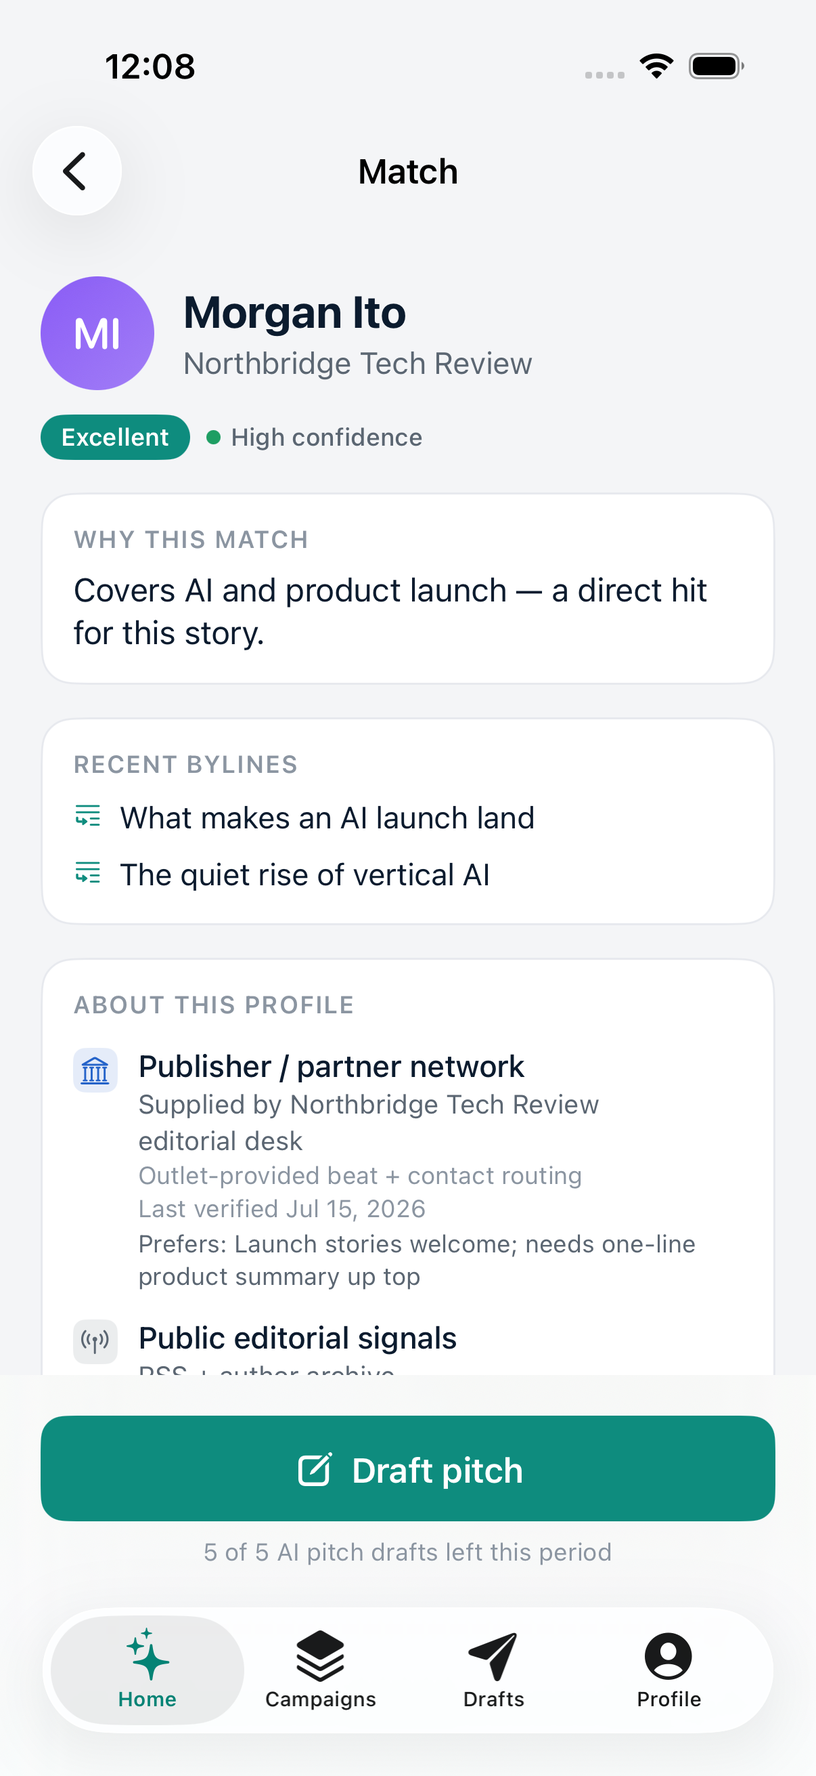
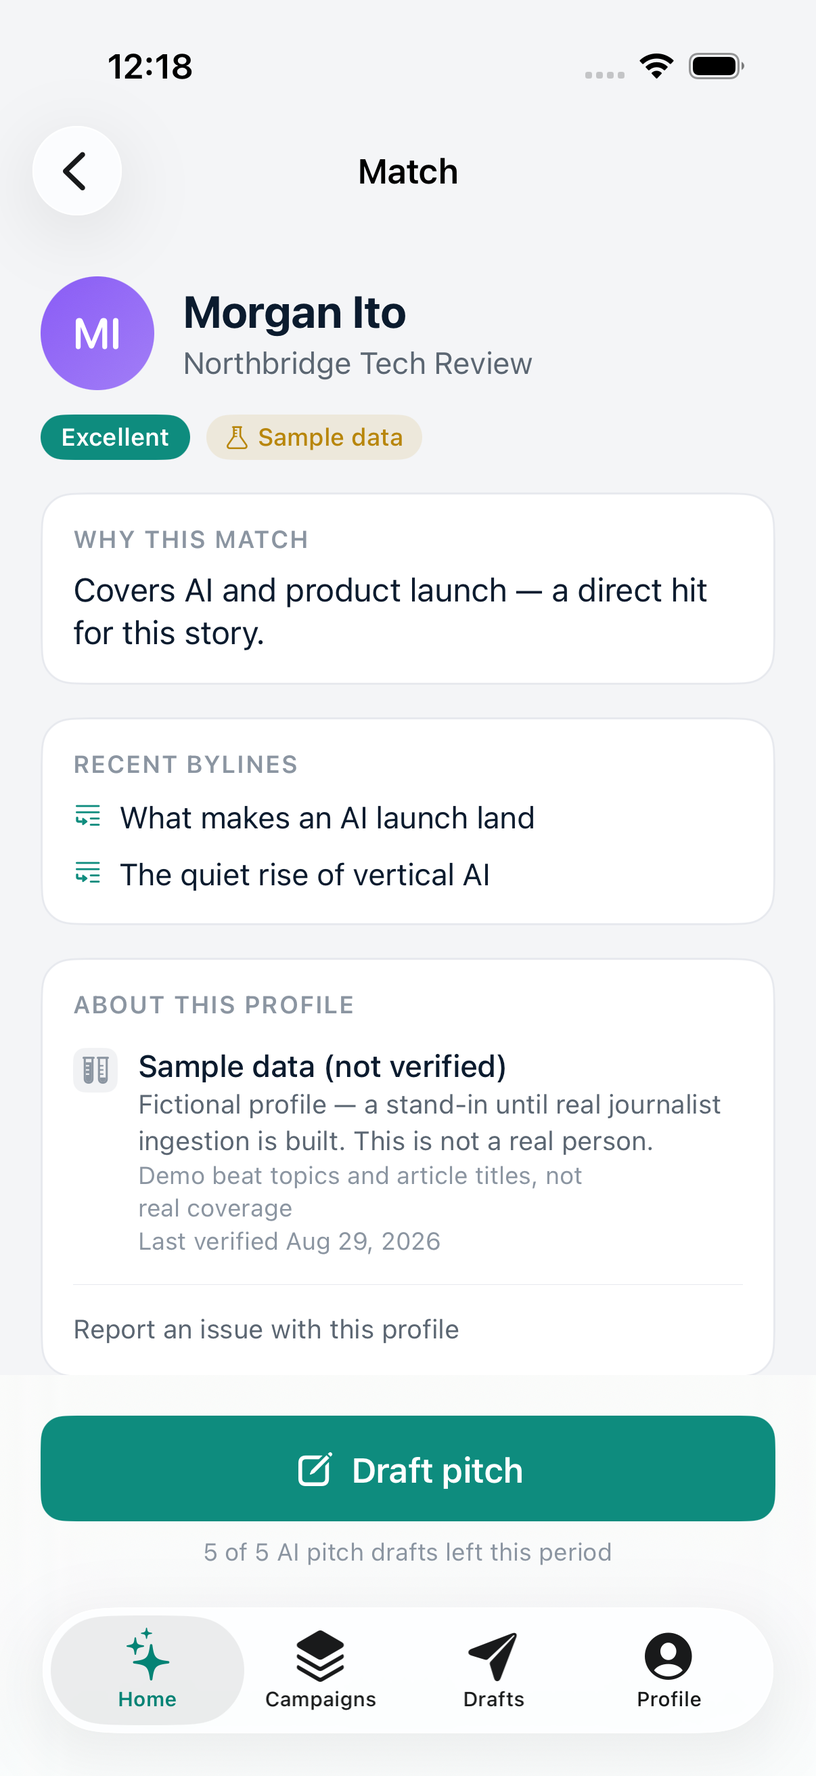
Honesty: matches are fictional — and the app now says so everywhere
The fellows caught it: the app was presenting made-up journalists with
provenance labels ("Claimed by the journalist", "Last verified Jul 15",
"High confidence") that imply real, verified data. That's the exact
anti-pattern the direction warns against.

- SampleJournalists: every profile now carries ONE .sampleData provenance
  record with honest text ("Fictional profile — this is not a real person").
  No more fake claimed/publisher/licensed source types on invented people.
- JournalistProfile.isSampleData — true while every source is sample data;
  flips false on its own when real ingestion writes real records.
- Sample profiles always score .exploratory evidence confidence — matching
  gives them no "verified data" bonus (tier spread is now honest: 6 excellent,
  not 9).
- SampleDataBanner (Design/Components) on the match list; "Sample" tag on
  every match card; "Sample data" pill on the detail header; the provenance
  card leads with "not verified".
- Home carries a one-line "matches use sample journalists for now" note.
- SampleDataTests (3): every profile reads as sample, well-formed, and
  never inflated by a confidence bonus.

21 unit + 2 UI tests green (UI test now asserts the honesty banner shows and
scrolls to find its target since the tier order shifted). Release clean.

Claude-Session: https://claude.ai/code/session_013ymha6n2L9SfifjYS1iGM9

diff --git a/BeatMatch/Sources/Data/SampleJournalists.swift b/BeatMatch/Sources/Data/SampleJournalists.swift
@@ -1,121 +1,69 @@
 import Foundation
 
-/// Placeholder / sample data for local development only.
-/// These are NOT real journalists — fictional profiles to prove the
-/// analyze -> understand -> match -> explain -> draft loop before the real
-/// ingestion pipeline (public editorial-signal ingestion + provenance registry)
-/// is built. Every profile carries provenance records, same as real data would,
-/// so the UI never special-cases "sample" vs "real" — it reads whatever's there.
+/// Fictional sample data — **not real journalists.** These stand in for the real
+/// ingestion pipeline (public editorial signals + publisher partnerships +
+/// licensed data + claimed profiles) so the analyze → match → explain → draft
+/// loop can be built and shown. Every profile carries only `.sampleData`
+/// provenance, so `JournalistProfile.isSampleData` is true and the UI shows a
+/// clear "sample data" state everywhere a match appears.
+///
+/// When real ingestion lands it writes real `ProvenanceRecord`s with real source
+/// types; `isSampleData` flips to false and the sample banners vanish.
 enum SampleJournalists {
     private struct Entry {
         let name: String
         let outlet: String
         let topics: [String]
         let bylines: [String]
-        /// (sourceType, detail, coverageBasis, daysSinceVerified, pitchPreference?)
-        let provenance: [(ProvenanceSourceType, String, String?, Int, String?)]
     }
 
     static func seedPool() -> [JournalistProfile] {
         let entries: [Entry] = [
             Entry(name: "Riley Chen", outlet: "The Signal Desk",
                   topics: ["ai", "machine learning", "developer tools", "automation"],
-                  bylines: ["How small teams ship AI features fast", "Inside the developer tools boom"],
-                  provenance: [
-                    (.claimedProfile, "Profile claimed and edited by Riley Chen", "Self-declared beat + pitch rules", 20, "Email preferred, no cold DMs, data-backed pitches"),
-                    (.publicSignal, "Bylines from The Signal Desk author page", "12 articles, last 90 days", 6, nil)
-                  ]),
+                  bylines: ["How small teams ship AI features fast", "Inside the developer tools boom"]),
             Entry(name: "Morgan Ito", outlet: "Northbridge Tech Review",
                   topics: ["ai", "product launch", "vertical ai"],
-                  bylines: ["What makes an AI launch land", "The quiet rise of vertical AI"],
-                  provenance: [
-                    (.publisherPartner, "Supplied by Northbridge Tech Review editorial desk", "Outlet-provided beat + contact routing", 45, "Launch stories welcome; needs one-line product summary up top"),
-                    (.publicSignal, "RSS + author archive", "8 articles, last 60 days", 3, nil)
-                  ]),
+                  bylines: ["What makes an AI launch land", "The quiet rise of vertical AI"]),
             Entry(name: "Sasha Reyes", outlet: "Founders Weekly",
                   topics: ["funding", "startups", "seed rounds"],
-                  bylines: ["Seed rounds are getting weirder", "Why founders are skipping the pitch deck"],
-                  provenance: [
-                    (.licensedDataset, "Licensed media database record", "Beat classification + outlet", 200, "Funding news only if the round is closed and named"),
-                    (.publicSignal, "Public bylines", "Sparse recent coverage", 150, nil)
-                  ]),
+                  bylines: ["Seed rounds are getting weirder", "Why founders are skipping the pitch deck"]),
             Entry(name: "Dana Whitfield", outlet: "The Interface",
                   topics: ["developer tools", "apis", "cli", "sdk"],
-                  bylines: ["The best developer tools of the year", "API design as product strategy"],
-                  provenance: [
-                    (.claimedProfile, "Profile claimed by Dana Whitfield", "Self-declared beat", 8, "Short, technical pitches. Show, don't tell."),
-                  ]),
+                  bylines: ["The best developer tools of the year", "API design as product strategy"]),
             Entry(name: "Priya Nandan", outlet: "Consumer Tech Daily",
                   topics: ["consumer", "apps", "ios", "productivity"],
-                  bylines: ["The App Store's quiet renaissance", "Why consumer apps are getting simpler"],
-                  provenance: [
-                    (.publisherPartner, "Consumer Tech Daily contributor roster", "Outlet-provided", 30, "Consumer angle required; no B2B"),
-                    (.publicSignal, "Author page", "10 articles, last 90 days", 2, nil)
-                  ]),
+                  bylines: ["The App Store's quiet renaissance", "Why consumer apps are getting simpler"]),
             Entry(name: "Owen Marsh", outlet: "Fintech Ledger",
                   topics: ["fintech", "payments", "banking"],
-                  bylines: ["Payments infrastructure nobody talks about", "The new fintech underwriting stack"],
-                  provenance: [
-                    (.licensedDataset, "Licensed media database record", "Beat + outlet", 90, "Prefers infrastructure over consumer fintech"),
-                  ]),
+                  bylines: ["Payments infrastructure nobody talks about", "The new fintech underwriting stack"]),
             Entry(name: "Elena Cho", outlet: "The Signal Desk",
                   topics: ["ai", "acquisition", "product launch"],
-                  bylines: ["What AI acquisitions really buy", "The build-vs-buy calculus for AI teams"],
-                  provenance: [
-                    (.publicSignal, "Bylines from The Signal Desk", "6 articles, last 120 days", 40, nil),
-                  ]),
+                  bylines: ["What AI acquisitions really buy", "The build-vs-buy calculus for AI teams"]),
             Entry(name: "Marcus Aldridge", outlet: "Deep Dive Tech",
                   topics: ["developer tools", "ai", "open source"],
-                  bylines: ["Framework fatigue is real", "The tools developers actually reach for"],
-                  provenance: [
-                    (.claimedProfile, "Profile claimed by Marcus Aldridge", "Self-declared beat + do-not-pitch list", 15, "No funding pitches. Open-source angle welcome."),
-                    (.publicSignal, "Author archive", "14 articles, last 90 days", 4, nil)
-                  ]),
+                  bylines: ["Framework fatigue is real", "The tools developers actually reach for"]),
             Entry(name: "Talia Brooks", outlet: "Northbridge Tech Review",
                   topics: ["consumer", "product launch", "automation"],
-                  bylines: ["Launch week, decoded", "What a good product launch looks like in 2026"],
-                  provenance: [
-                    (.publisherPartner, "Northbridge Tech Review editorial desk", "Outlet-provided", 60, "Launch playbooks and consumer angles"),
-                  ]),
+                  bylines: ["Launch week, decoded", "What a good product launch looks like in 2026"]),
             Entry(name: "Jules Ferreira", outlet: "Founders Weekly",
                   topics: ["startups", "acquisition", "funding"],
-                  bylines: ["The acquihire is back", "Inside a founder's first exit"],
-                  provenance: [
-                    (.publicSignal, "Public bylines", "5 articles, last 180 days", 170, nil),
-                  ]),
+                  bylines: ["The acquihire is back", "Inside a founder's first exit"]),
             Entry(name: "Nora Kessler", outlet: "The Interface",
                   topics: ["ai", "apis", "sdk", "developer tools"],
-                  bylines: ["The API-first AI stack", "Why every AI startup needs an SDK strategy"],
-                  provenance: [
-                    (.claimedProfile, "Profile claimed by Nora Kessler", "Self-declared beat", 25, "API/SDK strategy stories. Email only."),
-                    (.publicSignal, "Author page", "9 articles, last 75 days", 5, nil)
-                  ]),
+                  bylines: ["The API-first AI stack", "Why every AI startup needs an SDK strategy"]),
             Entry(name: "Ibrahim Solis", outlet: "Consumer Tech Daily",
                   topics: ["ai", "consumer", "apps"],
-                  bylines: ["AI features nobody asked for (and some they did)", "The consumer AI app graveyard"],
-                  provenance: [
-                    (.publisherPartner, "Consumer Tech Daily roster", "Outlet-provided", 35, "Skeptical of AI hype; bring a real use case"),
-                  ]),
+                  bylines: ["AI features nobody asked for (and some they did)", "The consumer AI app graveyard"]),
             Entry(name: "Wren Ashby", outlet: "Deep Dive Tech",
                   topics: ["fintech", "developer tools", "apis"],
-                  bylines: ["Building fintech APIs that don't break", "The infrastructure behind embedded finance"],
-                  provenance: [
-                    (.licensedDataset, "Licensed media database record", "Beat + outlet", 110, nil),
-                    (.publicSignal, "Author archive", "7 articles, last 100 days", 12, nil)
-                  ]),
+                  bylines: ["Building fintech APIs that don't break", "The infrastructure behind embedded finance"]),
             Entry(name: "Camille Duquette", outlet: "Fintech Ledger",
                   topics: ["funding", "fintech", "startups"],
-                  bylines: ["Fintech funding is back, quietly", "Who's actually writing fintech checks in 2026"],
-                  provenance: [
-                    (.publicSignal, "Public bylines", "6 articles, last 60 days", 8, nil),
-                  ]),
+                  bylines: ["Fintech funding is back, quietly", "Who's actually writing fintech checks in 2026"]),
             Entry(name: "Theo Lindqvist", outlet: "The Signal Desk",
                   topics: ["developer tools", "ai", "product launch"],
-                  bylines: ["Developer-first launches, ranked", "What developers notice in the first five minutes"],
-                  provenance: [
-                    (.claimedProfile, "Profile claimed by Theo Lindqvist", "Self-declared beat", 10, "Developer-first launches. Short pitch, link to docs."),
-                    (.publisherPartner, "The Signal Desk desk", "Outlet-provided contact routing", 50, nil)
-                  ]),
+                  bylines: ["Developer-first launches, ranked", "What developers notice in the first five minutes"]),
         ]
 
         var outletCache: [String: Outlet] = [:]
@@ -130,16 +78,14 @@ enum SampleJournalists {
                 recentBylineTitles: entry.bylines,
                 outlet: outlet
             )
-            journalist.provenanceRecords = entry.provenance.map { item in
-                let (type, detail, basis, days, pref) = item
-                return ProvenanceRecord(
-                    sourceType: type,
-                    detail: detail,
-                    coverageBasis: basis,
-                    lastVerifiedAt: Calendar.current.date(byAdding: .day, value: -days, to: Date()) ?? Date(),
-                    pitchPreference: pref
+            journalist.provenanceRecords = [
+                ProvenanceRecord(
+                    sourceType: .sampleData,
+                    detail: "Fictional profile — a stand-in until real journalist ingestion is built. This is not a real person.",
+                    coverageBasis: "Demo beat topics and article titles, not real coverage",
+                    lastVerifiedAt: Date()
                 )
-            }
+            ]
             return journalist
         }
     }

diff --git a/BeatMatch/UnitTests/SampleDataTests.swift b/BeatMatch/UnitTests/SampleDataTests.swift
@@ -1,0 +1,46 @@
+import XCTest
+@testable import Pitchwire
+
+final class SampleDataTests: XCTestCase {
+
+    private let pool = SampleJournalists.seedPool()
+
+    func testEveryProfileIsHonestlyMarkedAsSample() {
+        XCTAssertFalse(pool.isEmpty)
+        for j in pool {
+            XCTAssertTrue(j.isSampleData, "\(j.name) must read as sample data")
+            XCTAssertTrue(j.provenanceRecords.allSatisfy { $0.sourceType == .sampleData })
+            XCTAssertEqual(j.evidenceConfidence, .exploratory,
+                           "sample data must never present as high/moderate confidence")
+        }
+    }
+
+    func testSampleProfilesAreWellFormed() {
+        for j in pool {
+            XCTAssertFalse(j.name.trimmingCharacters(in: .whitespaces).isEmpty)
+            XCTAssertFalse(j.beatTopics.isEmpty, "\(j.name) has no beat topics")
+            XCTAssertNotNil(j.outlet)
+            XCTAssertFalse(j.recentBylineTitles.isEmpty, "\(j.name) has no bylines")
+            for record in j.provenanceRecords {
+                XCTAssertLessThanOrEqual(record.lastVerifiedAt, Date(), "verification date in the future")
+                XCTAssertTrue(record.detail.lowercased().contains("not a real")
+                              || record.detail.lowercased().contains("fictional"),
+                              "sample provenance must say it isn't real")
+            }
+        }
+    }
+
+    func testMatchingRanksSampleDataWithoutAConfidenceBonus() {
+        let service = KeywordMatchingService()
+        let analysis = StoryAnalysisResult(
+            theme: "AI", vertical: "ai", region: "US", angle: "product launch",
+            urgency: "standard", summary: "", audience: "Developers",
+            subtopics: ["developer tools", "apis"], mediaHooks: []
+        )
+        let results = service.match(analysis: analysis, against: pool)
+        XCTAssertFalse(results.isEmpty)
+        // A sample profile can still be a top topical fit, but nothing about
+        // "verified evidence" should be inflating it.
+        XCTAssertTrue(results.allSatisfy { $0.journalist.isSampleData })
+    }
+}

diff --git a/BeatMatch/Sources/Design/Components.swift b/BeatMatch/Sources/Design/Components.swift
@@ -161,6 +161,36 @@ extension ButtonStyle where Self == PitchwireButtonStyle {
     static var pitchwireQuiet: PitchwireButtonStyle { PitchwireButtonStyle(prominent: false) }
 }
 
+// MARK: - Sample data notice
+
+/// Shown wherever sample journalists appear, until real ingestion exists.
+/// Honesty is a product surface, not a footnote.
+struct SampleDataBanner: View {
+    var compact = false
+
+    var body: some View {
+        HStack(spacing: 10) {
+            Image(systemName: "flask.fill")
+                .foregroundStyle(Palette.warning)
+            VStack(alignment: .leading, spacing: 2) {
+                Text("Sample data")
+                    .font(.footnote.weight(.semibold))
+                    .foregroundStyle(Palette.ink)
+                if !compact {
+                    Text("These journalists are fictional stand-ins. Real matching isn't wired up yet — names, outlets and coverage are demo data.")
+                        .font(.caption)
+                        .foregroundStyle(Palette.inkSecondary)
+                        .fixedSize(horizontal: false, vertical: true)
+                }
+            }
+            Spacer(minLength: 0)
+        }
+        .padding(12)
+        .background(Palette.warning.opacity(0.10), in: RoundedRectangle(cornerRadius: Metrics.controlRadius, style: .continuous))
+        .accessibilityElement(children: .combine)
+    }
+}
+
 // MARK: - Screen background
 
 struct ScreenBackground: ViewModifier {

diff --git a/BeatMatch/Sources/Views/MatchListView.swift b/BeatMatch/Sources/Views/MatchListView.swift
@@ -21,6 +21,10 @@ struct MatchListView: View {
 
     private var hiddenCount: Int { campaign.mediaTargets.filter { $0.status == .hidden }.count }
 
+    private var hasSampleData: Bool {
+        visibleTargets.contains { $0.journalist?.isSampleData == true }
+    }
+
     var body: some View {
         List {
             if let story = campaign.story {
@@ -32,6 +36,15 @@ struct MatchListView: View {
                     .listRowInsets(EdgeInsets(top: 8, leading: Metrics.gutter, bottom: 4, trailing: Metrics.gutter))
                     .listRowBackground(Color.clear)
                     .listRowSeparator(.hidden)
+                }
+            }
+
+            if hasSampleData {
+                Section {
+                    SampleDataBanner()
+                        .listRowInsets(EdgeInsets(top: 4, leading: Metrics.gutter, bottom: 8, trailing: Metrics.gutter))
+                        .listRowBackground(Color.clear)
+                        .listRowSeparator(.hidden)
                 }
             }
 

diff --git a/BeatMatch/UITests/CoreLoopUITests.swift b/BeatMatch/UITests/CoreLoopUITests.swift
@@ -41,11 +41,15 @@ final class CoreLoopUITests: XCTestCase {
         snap(app, "02-story-summary")
         app.buttons["Find journalists"].tap()
 
-        // Match list — deterministic seed data puts Morgan Ito in the top tier
+        // Match list
         XCTAssertTrue(app.staticTexts["Excellent match"].waitForExistence(timeout: 10))
+        XCTAssertTrue(app.staticTexts["Sample data"].exists, "sample-data honesty banner must show")
         snap(app, "03-match-list")
+        let list = app.collectionViews.firstMatch
         let row = app.buttons.matching(NSPredicate(format: "label BEGINSWITH %@", "Morgan Ito")).firstMatch
-        XCTAssertTrue(row.waitForExistence(timeout: 10))
+        var tries = 0
+        while !row.exists && tries < 8 { list.swipeUp(); tries += 1 }
+        XCTAssertTrue(row.exists, "Morgan Ito should be among the matches")
         row.tap()
 
         // Detail: "why this match" + provenance are non-negotiable per the brief

diff --git a/BeatMatch/Sources/Models/JournalistProfile.swift b/BeatMatch/Sources/Models/JournalistProfile.swift
@@ -56,6 +56,13 @@ extension JournalistProfile {
         provenanceRecords.contains(where: \.issueReported)
     }
 
+    /// True while this profile is a fictional stand-in (every source is sample
+    /// data). Real ingestion replaces these records with real ones and this
+    /// flips to false — the sample banners then disappear on their own.
+    var isSampleData: Bool {
+        !provenanceRecords.isEmpty && provenanceRecords.allSatisfy { $0.sourceType == .sampleData }
+    }
+
     /// Confidence = how authoritative the best source is + how recently it was verified.
     var evidenceConfidence: EvidenceConfidence {
         guard let primary = primaryProvenance else { return .exploratory }

diff --git a/BeatMatch/Sources/Views/Rows.swift b/BeatMatch/Sources/Views/Rows.swift
@@ -74,7 +74,9 @@ struct MatchRow: View {
                                 .font(.subheadline)
                                 .foregroundStyle(Palette.inkSecondary)
                         }
-                        if let c = target.journalist?.evidenceConfidence {
+                        if target.journalist?.isSampleData == true {
+                            Tag(text: "Sample", color: Palette.warning)
+                        } else if let c = target.journalist?.evidenceConfidence {
                             EvidenceDot(confidence: c, showsLabel: false)
                         }
                     }

diff --git a/BeatMatch/Sources/Views/JournalistDetailView.swift b/BeatMatch/Sources/Views/JournalistDetailView.swift
@@ -75,7 +75,9 @@ struct JournalistDetailView: View {
             }
             HStack(spacing: 8) {
                 ConfidencePill(tier: target.confidenceTier)
-                if let c = journalist?.evidenceConfidence {
+                if journalist?.isSampleData == true {
+                    Tag(text: "Sample data", icon: "flask", color: Palette.warning)
+                } else if let c = journalist?.evidenceConfidence {
                     EvidenceDot(confidence: c)
                 }
             }

diff --git a/BeatMatch/Sources/Views/HomeView.swift b/BeatMatch/Sources/Views/HomeView.swift
@@ -60,6 +60,11 @@ struct HomeView: View {
 
                     AllowanceFooter(key: .storyAnalysis)
 
+                    Label("Matches use sample journalists for now — real ingestion is coming.", systemImage: "flask")
+                        .font(.caption)
+                        .foregroundStyle(Palette.inkTertiary)
+                        .frame(maxWidth: .infinity)
+
                     if storyText.isEmpty {
                         examplesSection
                     }

diff --git a/docs/DIRECTION.md b/docs/DIRECTION.md
@@ -125,10 +125,19 @@ No feature ever checks `if plan == .free`. Features ask `Entitlements`:
 
 | Layer | Source | Status |
 |---|---|---|
-| A | Claimed journalist profiles (journalist edits their own beat / pitch rules / do-not-pitch) | modeled (`claimedProfile`), not yet real |
-| B | Publisher / network partnerships (first-party editorial context) | modeled (`publisherPartner`), not yet real |
-| C | Licensed professional datasets (only where rights are explicit) | modeled (`licensedDataset`), not yet real |
-| D | Public editorial signals (bylines, author pages, RSS, topic patterns) | modeled (`publicSignal`), not yet real |
+| A | Claimed journalist profiles (journalist edits their own beat / pitch rules / do-not-pitch) | `ProvenanceSourceType.claimedProfile` modeled; **no real data yet** |
+| B | Publisher / network partnerships (first-party editorial context) | `.publisherPartner` modeled; **no real data yet** |
+| C | Licensed professional datasets (only where rights are explicit) | `.licensedDataset` modeled; **no real data yet** |
+| D | Public editorial signals (bylines, author pages, RSS, topic patterns) | `.publicSignal` modeled; **no real data yet** |
+
+**Today every match is fictional.** `SampleJournalists.seedPool()` returns 15 made-up profiles,
+each carrying only `.sampleData` provenance, so `JournalistProfile.isSampleData` is true. The app
+says so, loudly: a `SampleDataBanner` on the match list, a "Sample" tag on every card, a "Sample
+data" pill on the detail header, and an honest "Fictional profile — this is not a real person"
+provenance record. Sample profiles always score `.exploratory` evidence confidence — nothing
+about "verified" data inflates them. When real ingestion writes real `ProvenanceRecord`s,
+`isSampleData` flips false and every banner disappears on its own. (`SampleDataTests` enforces
+this.)
 
 App Store guideline **5.1.1(viii)** — apps compiling personal info from sources not provided by
 the user, "even public databases," are not permitted — is the strategic constraint the whole

diff --git a/START_HERE.md b/START_HERE.md
@@ -66,8 +66,12 @@ BeatMatch/
 ```
 
 ## What's real vs. placeholder
-- The 15 journalists in `Data/SampleJournalists.swift` are fictional — clearly marked as sample
-  data, not real people. Real ingestion (Fellow 4's job) replaces this file's `seedPool()` later.
+- **Every match is fictional.** The 15 journalists in `Data/SampleJournalists.swift` are made up
+  and carry only `.sampleData` provenance. The app says so everywhere they appear — a banner on the
+  match list, a "Sample" tag per card, a pill on the detail header, an honest "not a real person"
+  provenance record. Sample profiles always score `.exploratory` confidence. When real ingestion
+  writes real `ProvenanceRecord`s, `JournalistProfile.isSampleData` flips false and the banners
+  vanish. `SampleDataTests` enforces the honesty.
 - The `Story` ↔ `StoryAnalysisResult` mapping lives in one place — `Story.apply(_:)` and
   `Story.analysisResult` (in `Models/Story.swift`). Add a new analysis field there, not at call sites.
 - Story analysis and pitch drafting are deterministic/template-based (`StubStoryAnalysisService`,
